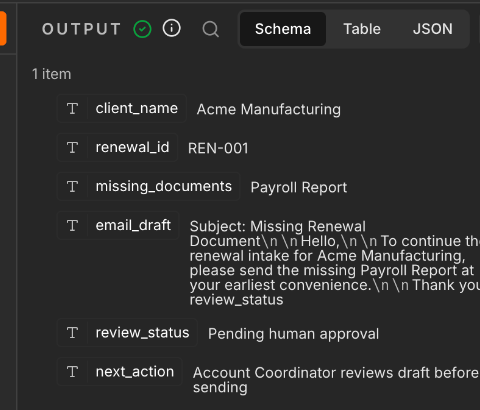
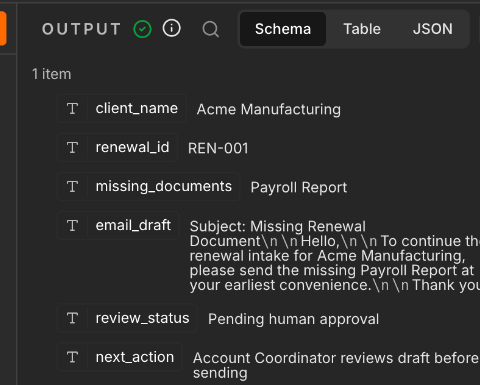
Confirm corrected missing-document test output

diff --git a/README.md b/README.md
@@ -61,12 +61,12 @@ The prototype implements the Pilot 01 logic in n8n, including AI-assisted docume
 **Observed manual tests (October 10, 2026):**
 
 - **Complete package:** The run reached `Queue Complete Package for Validation`. Output listed all four required document categories, `package_status: Complete`, and `review_status: Pending human validation`.
-- **Missing Payroll Report:** The run reached `Queue for Human Review`. Output identified `Payroll Report` in `missing_documents` and drafted a request for it. The live n8n node also appended the literal text `review_status` to the email draft, so the draft needs correction before this branch is considered clean.
+- **Missing Payroll Report:** The run reached `Queue for Human Review`. Output identified `Payroll Report` in `missing_documents` and drafted a request for it. An initial run appended the literal text `review_status` to the email draft. After correcting the live field, a repeat run showed `Payroll Report` as missing and an email draft without that stray text.
 - **Forced low-confidence routing:** With the threshold temporarily raised to 101, the run reached `Queue Classification Review` and displayed lowest confidence 99 and threshold 101. This confirms the branch routing under a forced threshold; it does not establish calibration or natural low-confidence detection. Restore the live threshold to 90 after the test.
 
-**Test screenshots (cropped to the n8n output):** [Complete package](./evidence/complete-package.png) · [Missing document](./evidence/missing-document.png) · [Forced low confidence](./evidence/forced-low-confidence.png). The missing-document screenshot captures the live draft issue described above.
+**Test screenshots (cropped to the n8n output):** [Complete package](./evidence/complete-package.png) · [Missing document](./evidence/missing-document.png) · [Forced low confidence](./evidence/forced-low-confidence.png). The missing-document screenshot shows the corrected repeat run.
 
-**Remaining verification:** Remove the stray `review_status` text from the live n8n `Queue for Human Review` email field and rerun the missing-document test. Confirm the live threshold is restored to 90. These screenshots demonstrate branch routing and selected output fields, but do not establish measured accuracy or time savings. The repository workflow export already has a clean email expression; the live n8n version needs to be brought into sync.
+**Remaining verification:** Confirm the live threshold is restored to 90 and the sample Payroll Report value is restored after testing. These screenshots demonstrate branch routing and selected output fields, but do not establish measured accuracy or time savings. The repository workflow export has a clean email expression.
 
 ## Measuring Success
 
